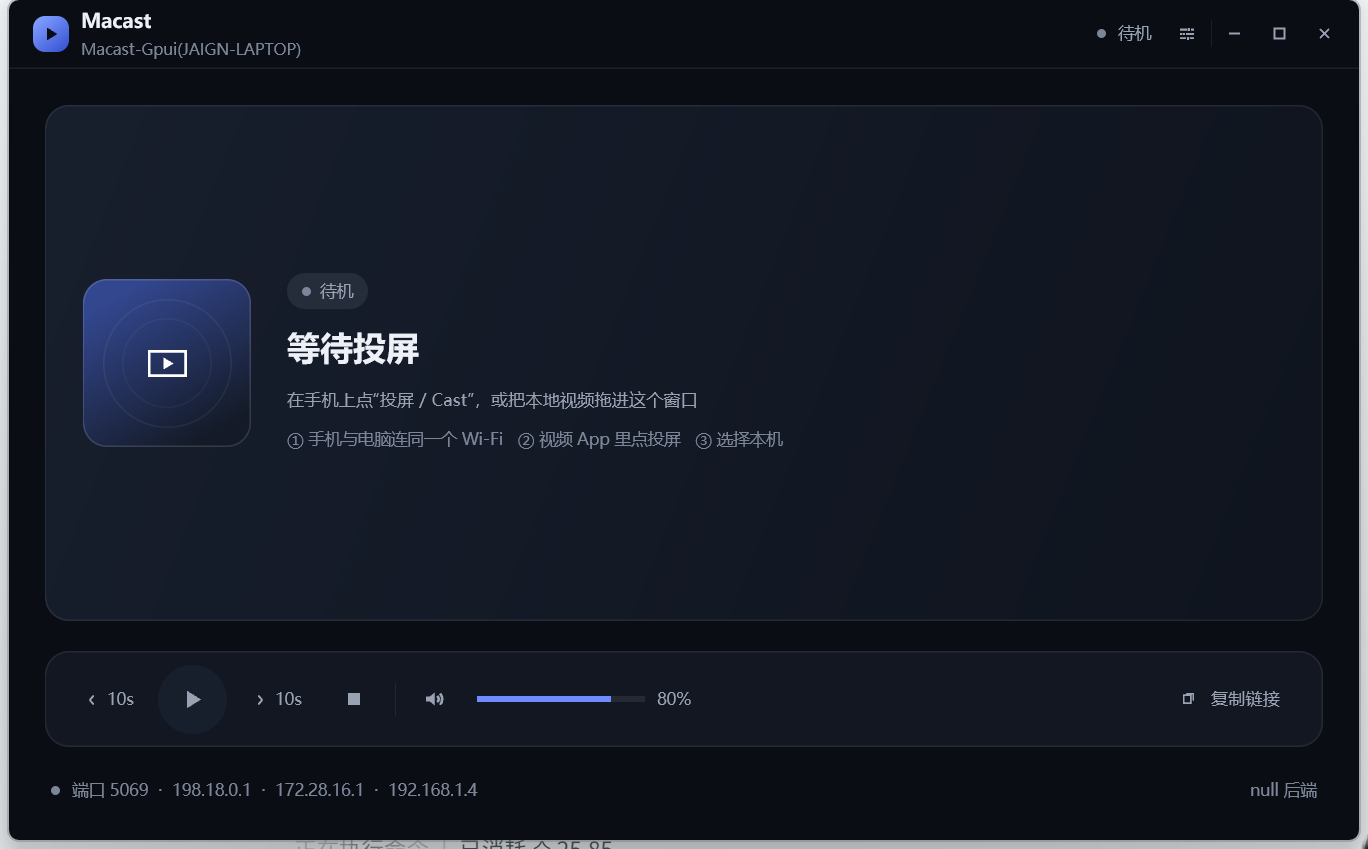
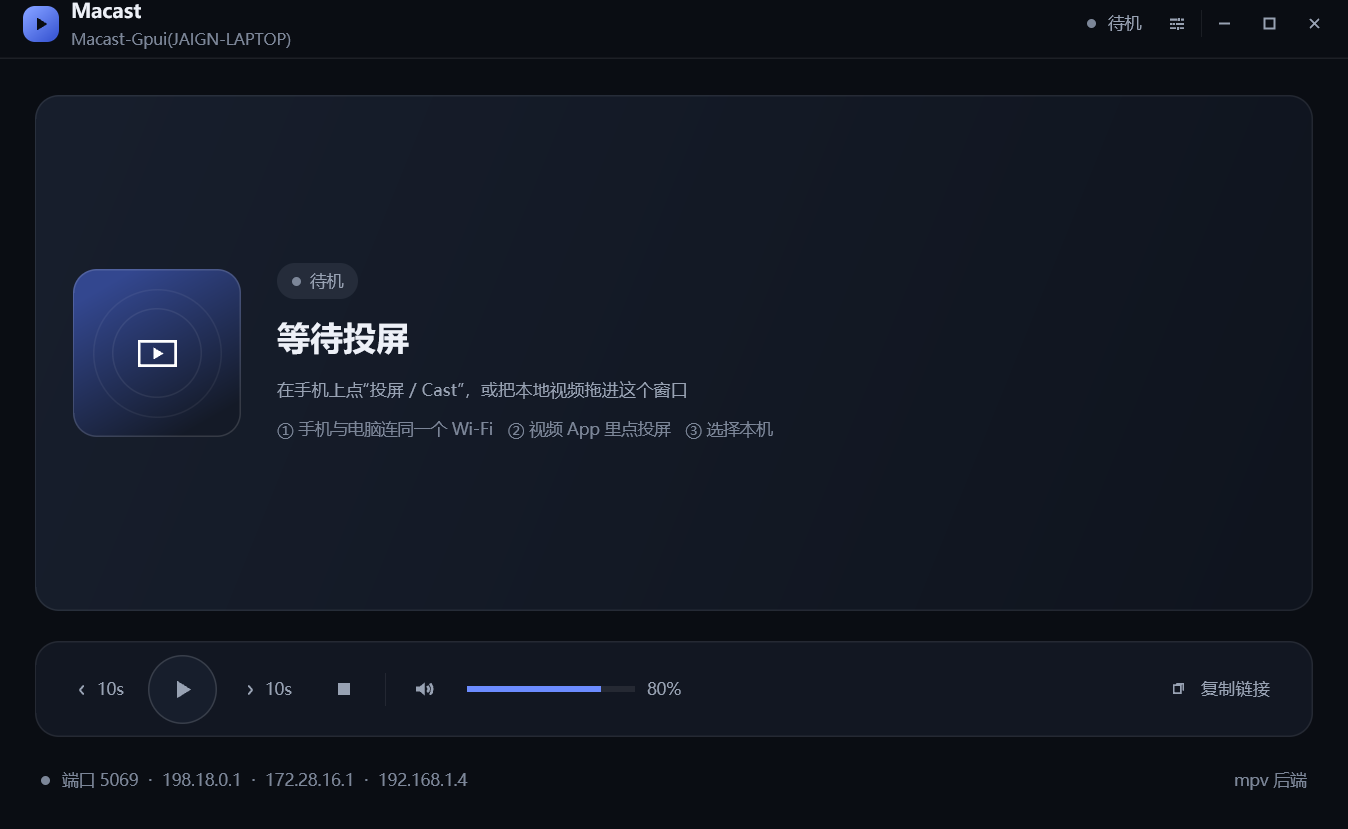
docs: retake screenshots with real mpv playback (both themes)
- screenshot-playing: real mpv backend, seeking to 12s of a 30s clip so the
  progress bar and both timestamps are populated
- screenshot-light: real light-theme playing state (previous capture was a
  WorkBuddy overlay by mistake)
- screenshot-idle: refreshed dark empty state
- README: show dark and light side by side
- GUIDE: record the PrintWindow capture method and the faststart requirement
  for HTTP-served test clips (moov at tail makes mpv end-file instantly)

diff --git a/GUIDE.md b/GUIDE.md
@@ -370,7 +370,8 @@ printf 'M-SEARCH * HTTP/1.1\r\nHOST: 239.255.255.250:1900\r\nMAN: "ssdp:discover
 - **Windows 细节**：gpui 0.2.2 的 `start_window_move` 在 Windows 上是空实现，自绘标题栏拖动用 `WM_NCLBUTTONDOWN + HTCAPTION`；最大化/最小化/隐藏用 `ShowWindowAsync`，避免在事件处理里同步 `ShowWindow` 触发 `RefCell already borrowed`（会让 surface 不 resize）。
 - 主题：`Config.theme`（`auto` / `light` / `dark`，默认 auto），渲染时用 `window.appearance()` 解析；`observe_window_appearance` 负责系统主题变化时重绘。设置里的分段控件即时生效，不需要重启。
 - 后端展示：设置面板区分「当前运行」（`core.engine.player.name()`）与「启动后端」（`config.player`）；当启动配置是 mpv 但实际回退 null 时，给出琥珀色「mpv 回退」chip 和排查提示；footer 同步标记。
-- 截图：`docs/screenshot-idle.png` / `docs/screenshot-playing.png` / `docs/screenshot-light.png`（Windows 150% 缩放实拍）。
+- 截图：`docs/screenshot-idle.png` / `docs/screenshot-playing.png` / `docs/screenshot-light.png`（Windows 150% 缩放实拍，抓取用 PrintWindow + 像素校验，不受遮挡影响）。
+- 测试视频注意：供 mpv 经 HTTP 播放的样片**必须带 `-movflags +faststart`**（moov 在尾部时 mpv 探测失败，0.5s 内直接 end-file → 状态 Stopped）；测试音轨用 `anullsrc` 静音，避免截图/测试时出声。
 
 可继续做：
 - 应用内文本输入（gpui 0.2.2 没有 Input 元素，需自己处理 key_down + IME，工作量大）

diff --git a/README.md b/README.md
@@ -4,7 +4,9 @@
 
 用 **Rust + gpui** 复刻 [Macast](https://github.com/xfangfang/Macast)：一个跨平台的 **DLNA 媒体接收端（投屏接收器）**。手机视频 App 的"投屏"列表里会出现你的电脑，点一下即可把视频/图片/音乐推过来，由 mpv 播放。
 
-![Macast-Gpui 界面](docs/screenshot-playing.png)
+| 暗色主题 | 亮色主题（跟随系统） |
+|:---:|:---:|
+| ![暗色主题](docs/screenshot-playing.png) | ![亮色主题](docs/screenshot-light.png) |
 
 ```
 macast-gpui/
